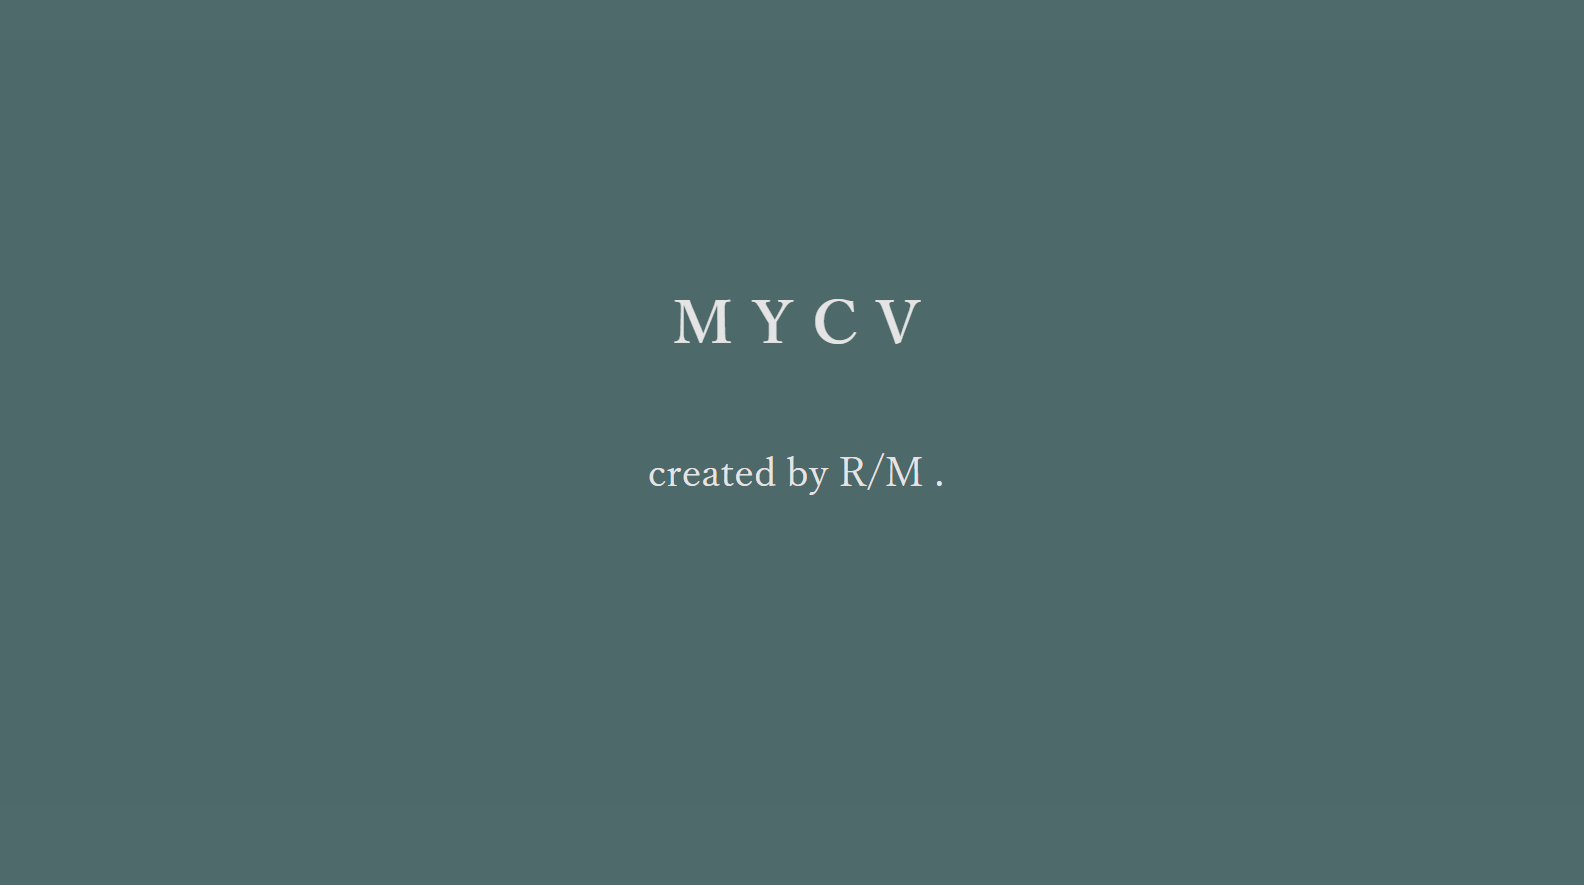
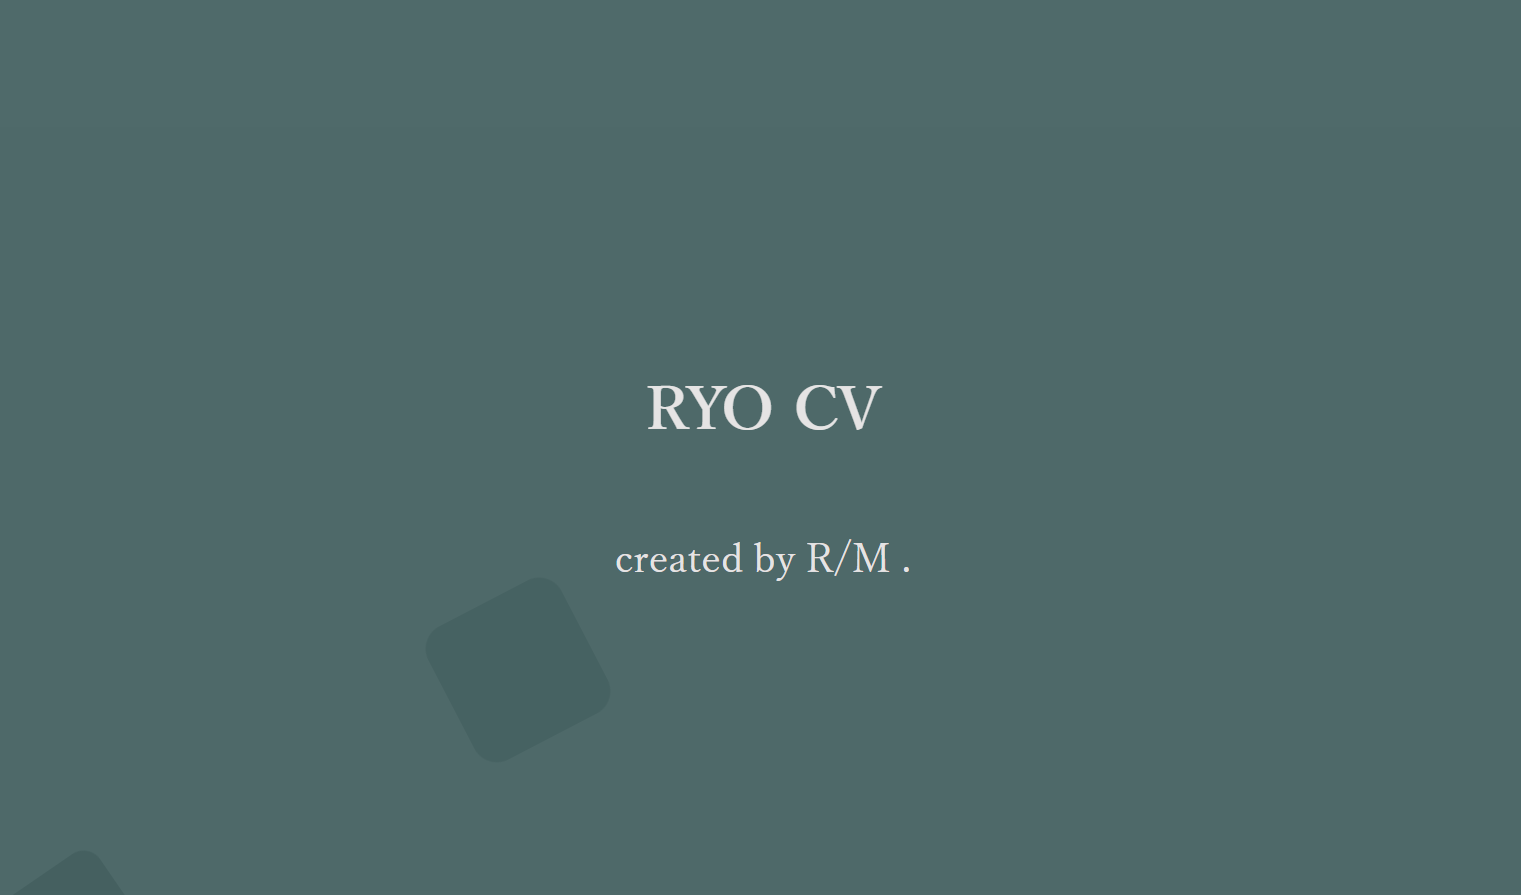
title change

diff --git a/profile/index.html b/profile/index.html
@@ -3,7 +3,7 @@
 
 <head>
   <meta charset="utf-8">
-  <title>MYCV</title>
+  <title>RYO CV</title>
 
   <!-- Global site tag (gtag.js) - Google Analytics -->
   <script async src="https://www.googletagmanager.com/gtag/js?id=UA-117098514-1"></script>
@@ -15,7 +15,7 @@
     gtag('config', 'UA-117098514-1');
   </script>
 
-  <meta name="description" content="Hello, I'm R.M. Welcome to MYCV.">
+  <meta name="description" content="Hello, I'm R.M. Welcome to RYO CV.">
   <meta name="viewport" content="width=device-width, initial-scale=1">
   <meta http-equiv="X-UA-Compatible" content="IE=edge">
   <meta name="author" content="R.M">
@@ -26,9 +26,9 @@
   <!-- OGP -->
   <meta property="og:type" content="Website">
   <meta property="og:url" content="https://ryocv.online/profile/">
-  <meta property="og:title" content="MYCV">
-  <meta property="og:site=name" content="MYCV">
-  <meta property="og:description" content="Hello, I'm R.M. MYCV is my CV.">
+  <meta property="og:title" content="RYO CV">
+  <meta property="og:site=name" content="RYO CV">
+  <meta property="og:description" content="Hello, I'm R.M. RYO CV is my CV.">
   <meta property="og:image" content="https://ryocv.online/profile/img/ogp.png">
 
   <link rel="manifest" href="site.webmanifest">
@@ -109,7 +109,7 @@
 
   <div id="home" class="home-page">
     <div class="contents">
-      <h1 class="title">MYCV</h1>
+      <h1 class="title">RYO CV</h1>
       <p>created by R/M .</p>
     </div>
   </div>
@@ -235,7 +235,7 @@
   <div id="thanks" class="thanks-page" style="visibility: hidden;">
     <div class="contents">
       <h1 class="title">T h a n k s</h1>
-      <p>MYCV uses the following OSS. <br>I sincerely thank and respect the creators of OSS.</p>
+      <p>RYO CV uses the following OSS. <br>I sincerely thank and respect the creators of OSS.</p>
 
       <div>
         <a href="https://flickity.metafizzy.co/" target="_blank" rel="noopener noreferrer" class="thanks-link"><h3>flickity</h3></a>
@@ -244,7 +244,7 @@
         <a href="https://html5boilerplate.com/" target="_blank" rel="noopener noreferrer" class="thanks-link"><h3>HTML5 Boilerplate</h3></a>
       </div>
 
-      <p>And, I would like to thank everyone who visited MYCV !!😆</p>
+      <p>And, I would like to thank everyone who visited RYO CV !!😆</p>
     </div>
   </div>
 
